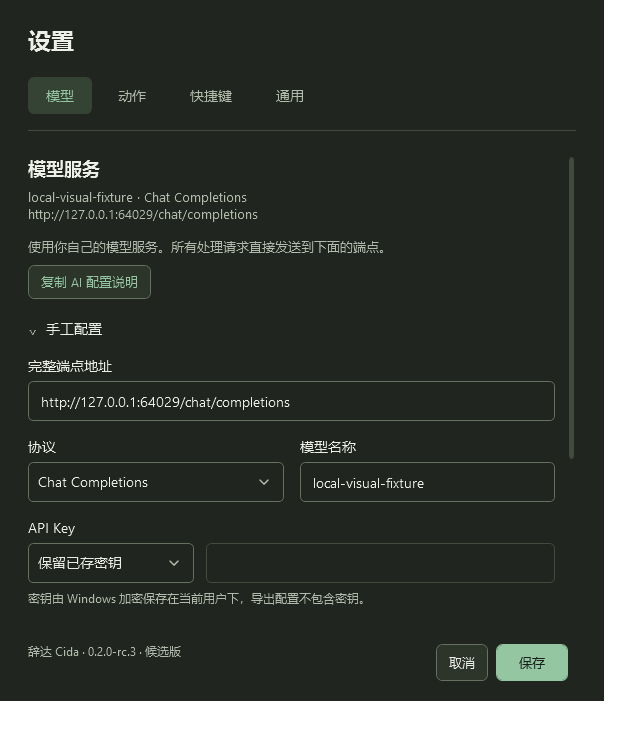
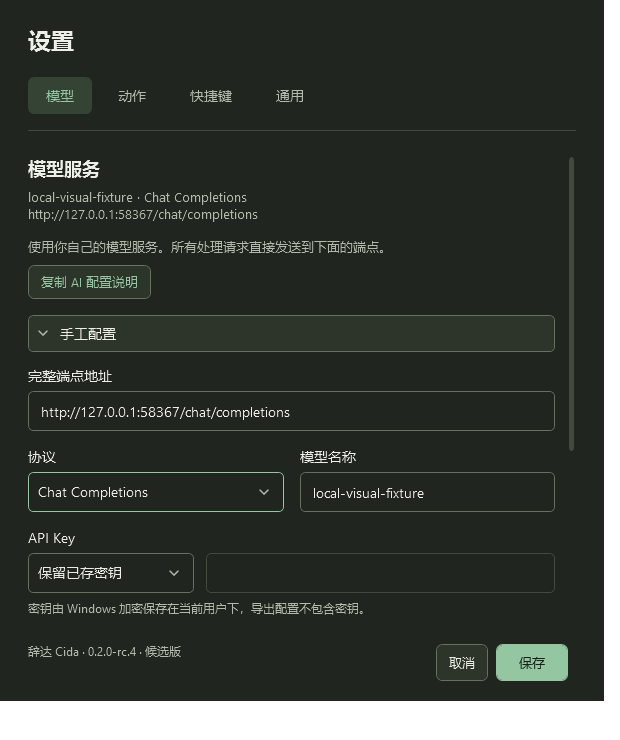
Fix opaque panel rendering, disclosure controls and window dragging

Changed region(s): [[0.0306, 0.4351, 0.7048, 0.8392], [0.3984, 0.6216, 0.4597, 0.6838], [0.1839, 0.2797, 0.2452, 0.3108]]

diff --git a/windows/Cida.Desktop/Resources/Controls.xaml b/windows/Cida.Desktop/Resources/Controls.xaml
@@ -16,8 +16,8 @@
     <Style TargetType="Expander">
         <Setter Property="Foreground" Value="{DynamicResource Ink}"/>
         <Setter Property="Template"><Setter.Value><ControlTemplate TargetType="Expander"><StackPanel>
-            <ToggleButton x:Name="HeaderSite" Foreground="{DynamicResource Ink}" HorizontalContentAlignment="Left" IsChecked="{Binding IsExpanded, RelativeSource={RelativeSource TemplatedParent}, Mode=TwoWay}">
-                <ToggleButton.Template><ControlTemplate TargetType="ToggleButton"><Border Background="Transparent" Padding="0,4"><StackPanel Orientation="Horizontal"><TextBlock Text="⌄" Margin="0,0,8,0" Foreground="{DynamicResource InkSecondary}"/><ContentPresenter/></StackPanel></Border></ControlTemplate></ToggleButton.Template>
+            <ToggleButton x:Name="HeaderSite" Foreground="{DynamicResource Ink}" HorizontalContentAlignment="Left" Cursor="Hand" AutomationProperties.Name="{Binding Header, RelativeSource={RelativeSource TemplatedParent}}" IsChecked="{Binding IsExpanded, RelativeSource={RelativeSource TemplatedParent}, Mode=TwoWay}">
+                <ToggleButton.Template><ControlTemplate TargetType="ToggleButton"><Border x:Name="surface" Background="{DynamicResource ControlBackground}" BorderBrush="{DynamicResource ControlBorder}" BorderThickness="1" CornerRadius="5" Padding="10,8"><Grid><Grid.ColumnDefinitions><ColumnDefinition Width="Auto"/><ColumnDefinition/></Grid.ColumnDefinitions><Path x:Name="chevron" Data="M 0,0 L 4,4 L 0,8" Stroke="{DynamicResource InkSecondary}" StrokeThickness="1.5" StrokeStartLineCap="Round" StrokeEndLineCap="Round" VerticalAlignment="Center" Margin="0,0,12,0"/><ContentPresenter Grid.Column="1" VerticalAlignment="Center"/></Grid></Border><ControlTemplate.Triggers><Trigger Property="IsChecked" Value="True"><Setter TargetName="chevron" Property="Data" Value="M 0,0 L 4,4 L 8,0"/></Trigger><Trigger Property="IsMouseOver" Value="True"><Setter TargetName="surface" Property="Background" Value="{DynamicResource ControlHover}"/></Trigger><Trigger Property="IsKeyboardFocused" Value="True"><Setter TargetName="surface" Property="BorderBrush" Value="{DynamicResource Accent}"/></Trigger><Trigger Property="IsPressed" Value="True"><Setter TargetName="surface" Property="Opacity" Value="0.75"/></Trigger></ControlTemplate.Triggers></ControlTemplate></ToggleButton.Template>
                 <ContentPresenter ContentSource="Header"/>
             </ToggleButton>
             <ContentPresenter x:Name="ContentSite" Visibility="Collapsed" ContentSource="Content"/>
@@ -44,6 +44,7 @@
         <Setter Property="FontFamily" Value="{DynamicResource InterfaceFont}"/><Setter Property="FontSize" Value="14"/>
         <Setter Property="Foreground" Value="{DynamicResource Ink}"/><Setter Property="Background" Value="{DynamicResource PanelBackground}"/>
         <Setter Property="UseLayoutRounding" Value="True"/><Setter Property="TextOptions.TextFormattingMode" Value="Display"/>
+        <Setter Property="TextOptions.TextRenderingMode" Value="Auto"/>
         <Setter Property="Icon" Value="/Cida;component/Assets/Brand/Cida.ico"/>
         <Setter Property="SnapsToDevicePixels" Value="True"/>
     </Style>
@@ -104,7 +105,7 @@
                 </ToggleButton>
                 <ContentPresenter IsHitTestVisible="False" Margin="10,0,36,0" VerticalAlignment="Center" Content="{TemplateBinding SelectionBoxItem}" ContentTemplate="{TemplateBinding SelectionBoxItemTemplate}" ContentTemplateSelector="{TemplateBinding ItemTemplateSelector}"/>
                 <Popup x:Name="PART_Popup" Placement="Bottom" AllowsTransparency="True" IsOpen="{TemplateBinding IsDropDownOpen}" Focusable="False">
-                    <Border MinWidth="{Binding ActualWidth, RelativeSource={RelativeSource TemplatedParent}}" Background="{DynamicResource PanelBackground}" BorderBrush="{DynamicResource ControlBorder}" BorderThickness="1" CornerRadius="5" Padding="4" Margin="0,4,0,0"><ScrollViewer MaxHeight="300"><ItemsPresenter KeyboardNavigation.DirectionalNavigation="Contained"/></ScrollViewer></Border>
+                    <Border MinWidth="{Binding ActualWidth, RelativeSource={RelativeSource TemplatedParent}}" Background="{DynamicResource PanelBackground}" RenderOptions.ClearTypeHint="Enabled" UseLayoutRounding="True" SnapsToDevicePixels="True" BorderBrush="{DynamicResource ControlBorder}" BorderThickness="1" CornerRadius="5" Padding="4" Margin="0,4,0,0"><ScrollViewer MaxHeight="300"><ItemsPresenter KeyboardNavigation.DirectionalNavigation="Contained"/></ScrollViewer></Border>
                 </Popup>
             </Grid>
             <ControlTemplate.Triggers><Trigger Property="IsKeyboardFocusWithin" Value="True"><Setter Property="BorderBrush" Value="{DynamicResource Accent}"/></Trigger><Trigger Property="IsEnabled" Value="False"><Setter Property="Opacity" Value="0.5"/></Trigger></ControlTemplate.Triggers>

diff --git a/windows/Cida.Desktop/PanelWindow.xaml b/windows/Cida.Desktop/PanelWindow.xaml
@@ -1,11 +1,12 @@
 <Window x:Class="Cida.Desktop.PanelWindow" xmlns="http://schemas.microsoft.com/winfx/2006/xaml/presentation" xmlns:x="http://schemas.microsoft.com/winfx/2006/xaml"
-        Title="辞达" Width="800" Height="620" MinWidth="340" MinHeight="300" WindowStyle="None" ResizeMode="NoResize" ShowInTaskbar="False" Topmost="True" AllowsTransparency="True" Background="Transparent">
+        Title="辞达" Width="800" Height="620" MinWidth="340" MinHeight="300" WindowStyle="None" ResizeMode="NoResize" ShowInTaskbar="False" Topmost="True" Background="{DynamicResource PanelBackground}">
+    <WindowChrome.WindowChrome><WindowChrome CaptionHeight="0" ResizeBorderThickness="0" GlassFrameThickness="0" CornerRadius="0" UseAeroCaptionButtons="False"/></WindowChrome.WindowChrome>
     <Border Background="{DynamicResource PanelBackground}" BorderBrush="{DynamicResource PanelBorder}" BorderThickness="1" CornerRadius="14" ClipToBounds="True">
         <Grid>
             <Grid.RowDefinitions><RowDefinition Height="Auto"/><RowDefinition Height="1.0*"/><RowDefinition Height="Auto"/><RowDefinition Height="1.6*"/></Grid.RowDefinitions>
-            <Grid Margin="28,18,20,0" x:Name="TitleBar">
+            <Grid Background="Transparent" Margin="28,18,20,0" x:Name="TitleBar">
                 <Grid.ColumnDefinitions><ColumnDefinition/><ColumnDefinition Width="Auto"/></Grid.ColumnDefinitions>
-                <StackPanel Orientation="Horizontal" VerticalAlignment="Center"><Image Source="/Cida;component/Assets/Brand/Cida24.png" Width="24" Height="24" Margin="0,0,9,0" RenderOptions.BitmapScalingMode="NearestNeighbor"/><TextBlock Text="辞达" FontSize="14" FontWeight="SemiBold" Foreground="{DynamicResource Ink}" VerticalAlignment="Center"/></StackPanel>
+                <StackPanel Orientation="Horizontal" VerticalAlignment="Center"><Image x:Name="BrandIcon" Width="24" Height="24" Margin="0,0,9,0" RenderOptions.BitmapScalingMode="HighQuality"/><TextBlock Text="辞达" FontSize="14" FontWeight="SemiBold" Foreground="{DynamicResource Ink}" VerticalAlignment="Center"/></StackPanel>
                 <StackPanel Grid.Column="1" Orientation="Horizontal"><Button x:Name="SettingsButton" Click="OnSettings" ToolTip="设置 · Ctrl+," AutomationProperties.Name="设置"><StackPanel Orientation="Horizontal"><TextBlock FontFamily="Segoe Fluent Icons, Segoe MDL2 Assets" Text="&#xE713;" Margin="0,0,7,0" VerticalAlignment="Center"/><TextBlock Text="设置"/></StackPanel></Button><Button x:Name="HideButton" Click="OnHide" ToolTip="隐藏面板 · Esc" AutomationProperties.Name="关闭" Margin="0"><StackPanel Orientation="Horizontal"><TextBlock FontFamily="Segoe Fluent Icons, Segoe MDL2 Assets" Text="&#xE8BB;" Margin="0,0,7,0" VerticalAlignment="Center"/><TextBlock Text="关闭"/></StackPanel></Button></StackPanel>
             </Grid>
             <Grid Grid.Row="1" Margin="28,16,28,20">

diff --git a/tests/Cida.VisualChecks/Program.cs b/tests/Cida.VisualChecks/Program.cs
@@ -11,6 +11,8 @@ using System.Windows.Controls;
 using System.Windows.Media;
 using System.Windows.Media.Imaging;
 using Point = System.Windows.Point;
+using System.Runtime.InteropServices;
+using System.Windows.Interop;
 
 namespace Cida.VisualChecks;
 
@@ -33,6 +35,10 @@ public static class Program
         var model = new AppModel(store);
         model.OpenPanel();
         var panel = application.Windows.OfType<PanelWindow>().Single(); panel.Title = "辞达 · 受控界面验证";
+        panel.LocationChanged += (_, _) => {
+            Directory.CreateDirectory(profile);
+            File.AppendAllText(Path.Combine(profile, "movement-log.jsonl"), JsonSerializer.Serialize(new { left=panel.Left, top=panel.Top, utc=DateTime.UtcNow }) + "\n");
+        };
         if (args.Contains("--render-suite"))
         {
             application.Dispatcher.BeginInvoke(async () =>
@@ -84,8 +90,35 @@ public static class Program
     private static async Task RenderSuiteAsync(System.Windows.Application application, AppModel model, PanelWindow panel, string profile)
     {
         var directory = Path.Combine(profile, "render-suite"); Directory.CreateDirectory(directory);
+        void SaveMetrics(Window window, string name)
+        {
+            var hwnd = new WindowInteropHelper(window).Handle;
+            var context = GetWindowDpiAwarenessContext(hwnd);
+            var dpi = VisualTreeHelper.GetDpi(window);
+            if (!AreDpiAwarenessContextsEqual(context, (nint)(-4)) || Math.Abs(GetDpiForWindow(hwnd) - dpi.DpiScaleX * 96) > 1)
+                throw new InvalidOperationException("Native and WPF DPI contexts do not match PerMonitorV2.");
+            var layered = (GetWindowLongPtr(hwnd, -20).ToInt64() & 0x80000) != 0;
+            if (window is PanelWindow or SettingsWindow && (layered || !window.UseLayoutRounding || !window.SnapsToDevicePixels || TextOptions.GetTextFormattingMode(window) != TextFormattingMode.Display))
+                throw new InvalidOperationException("Product window is not using opaque, pixel-aligned display text rendering.");
+            File.WriteAllText(Path.Combine(directory, name + "-render-metrics.json"), JsonSerializer.Serialize(new {
+                nativeDpi = GetDpiForWindow(hwnd), scaleX = dpi.DpiScaleX, scaleY = dpi.DpiScaleY,
+                perMonitorV2 = AreDpiAwarenessContextsEqual(context, (nint)(-4)),
+                layered,
+                layoutRounding = window.UseLayoutRounding, pixelSnapping = window.SnapsToDevicePixels,
+                font = window.FontFamily.Source, formatting = TextOptions.GetTextFormattingMode(window).ToString(),
+                rendering = TextOptions.GetTextRenderingMode(window).ToString(), left = window.Left, top = window.Top,
+                width = window.ActualWidth, height = window.ActualHeight
+            }));
+        }
         using (var icon = BrandAssets.LoadTrayIcon())
             File.WriteAllText(Path.Combine(directory, "tray-icon-metrics.json"), JsonSerializer.Serialize(new { width=icon.Width, height=icon.Height }));
+        foreach (var monitor in System.Windows.Forms.Screen.AllScreens)
+        {
+            var hwnd = new WindowInteropHelper(panel).Handle;
+            SetWindowPos(hwnd, 0, monitor.WorkingArea.Left + 32, monitor.WorkingArea.Top + 32, 0, 0, 0x0001 | 0x0004 | 0x0010);
+            await System.Windows.Threading.Dispatcher.Yield(System.Windows.Threading.DispatcherPriority.ApplicationIdle);
+            SaveMetrics(panel, "monitor-" + monitor.DeviceName.Replace("\\", "").Replace(".", ""));
+        }
         void Save(Window window, string name, double scale = 1)
         {
             window.UpdateLayout();
@@ -97,6 +130,10 @@ public static class Program
         {
             var theme = dark ? "dark" : "light"; ThemeService.Apply(dark); panel.Show(); panel.Width = 800; panel.Height = 620;
             await System.Windows.Threading.Dispatcher.Yield(System.Windows.Threading.DispatcherPriority.ApplicationIdle);
+            SaveMetrics(panel, theme + "-panel");
+            var title = (FrameworkElement)panel.FindName("TitleBar");
+            if (panel.InputHitTest(title.TranslatePoint(new Point(title.ActualWidth / 2, title.ActualHeight / 2), panel)) != title)
+                throw new InvalidOperationException("Blank panel title area is not hit-testable for dragging.");
             panel.SetSourceText(""); panel.BeginResult(model.Settings.EnabledActions.First(), ""); panel.CompleteResult(); Save(panel, theme + "-empty");
             panel.SetSourceText("Good software should make the next step feel obvious.\n\nKeep the meaning. Remove the noise.");
             panel.BeginResult(model.Settings.EnabledActions.First(), panel.State.Source);
@@ -109,6 +146,7 @@ public static class Program
             panel.BeginResult(model.Settings.EnabledActions.First(), panel.State.Source); panel.AppendResult(string.Join("\n\n", Enumerable.Repeat("长文仍然清楚易读，操作按钮保持在固定位置。（本地模拟）", 100))); panel.CompleteResult(); Save(panel, theme + "-long");
             panel.Hide();
             var settings = new SettingsWindow(model); settings.Show(); ThemeService.Apply(dark);
+            SaveMetrics(settings, theme + "-settings");
             var pages = (System.Windows.Controls.TabControl)settings.FindName("Pages");
             for (var index = 0; index < 4; index++)
             {
@@ -142,6 +180,11 @@ public static class Program
         panel.Close();
         File.WriteAllText(Path.Combine(directory, "README.txt"), "Controlled renders of real product views with local synthetic data. Raster scales 1/1.25/1.5/2 are not OS DPI or multi-monitor acceptance. No external model request was sent.");
     }
+    [DllImport("user32.dll")] private static extern uint GetDpiForWindow(nint hwnd);
+    [DllImport("user32.dll")] private static extern nint GetWindowDpiAwarenessContext(nint hwnd);
+    [DllImport("user32.dll")] private static extern bool AreDpiAwarenessContextsEqual(nint first, nint second);
+    [DllImport("user32.dll", EntryPoint = "GetWindowLongPtrW")] private static extern nint GetWindowLongPtr(nint hwnd, int index);
+    [DllImport("user32.dll")] private static extern bool SetWindowPos(nint hwnd, nint after, int x, int y, int width, int height, uint flags);
     private static async Task ServeAsync(TcpListener listener)
     {
         while (true)

diff --git a/scripts/derive-design-assets.py b/scripts/derive-design-assets.py
@@ -83,19 +83,23 @@ image.resize((256, 256), Image.Resampling.LANCZOS).save(brand / "Cida.png")
 # The detailed serif glyph needs optical simplification below 48px. Draw each
 # small frame on its own pixel grid; never downsample a selected 32px tray icon.
 def small_mark(size):
-    bitmap = Image.new("RGBA", (size, size), (0, 0, 0, 0))
+    samples = 8
+    bitmap = Image.new("RGBA", (size*samples, size*samples), (0, 0, 0, 0))
     pen = ImageDraw.Draw(bitmap)
-    pen.rounded_rectangle((0, 0, size-1, size-1), radius=round(size/8), fill="#F5F3ED")
+    pen.rounded_rectangle((0, 0, size*samples-1, size*samples-1), radius=round(size/8)*samples, fill="#F5F3ED")
     scale = size/16
     def line(points, color="#242922"):
-        pen.line([(round(x*scale), round(y*scale)) for x,y in points], fill=color, width=max(1,round(scale)))
+        width = max(1,round(scale))
+        # Keep straight stems on pixel boundaries, antialias diagonals and curves.
+        offset = samples//2 if width % 2 else 0
+        pen.line([(round(x*scale)*samples+offset, round(y*scale)*samples+offset) for x,y in points], fill=color, width=width*samples)
     # 舌 + 辛 keep the character and caret recognizable with complete pixel stems.
     for points in [[(2,3),(6,2)],[(4,3),(4,7)],[(1,5),(7,5)],[(2,8),(6,8),(6,13),(2,13),(2,8)],
                    [(10,2),(11,2)],[(8,4),(13,4)],[(9,5),(10,7)],[(12,5),(11,7)],
                    [(8,8),(13,8)],[(8,11),(13,11)],[(10,8),(10,14)]]:
         line(points)
     line([(15,4),(15,13)], "#346847")
-    return bitmap
+    return bitmap.resize((size,size), Image.Resampling.LANCZOS)
 sizes = [16,20,24,28,32,40,48,64,128,256]
 frames = [small_mark(size) if size < 48 else image.resize((size,size), Image.Resampling.LANCZOS) for size in sizes]
 frames[0].save(brand / "Cida16.png")
@@ -115,6 +119,6 @@ manifest = brand.parent / "provenance.json"
 provenance = json.loads(manifest.read_text(encoding="utf-8")) if manifest.exists() else {"upstream":"Xuanwo/cida", "commit":"473013c93e052e08603ffd2faccda0d6dafbb5be"}
 if records: provenance["font_derivatives"] = records
 provenance["brand_source"] = ["glyph.svg", "caret.svg"]
-provenance["brand_small_frames"] = {"sizes":sizes, "method":"Pixel-aligned optical simplification of the character and caret at 16-40px; original detailed glyph at 48px and above."}
+provenance["brand_small_frames"] = {"sizes":sizes, "method":"Pixel-aligned optical simplification at 16-40px; each size antialiased separately with 8x coverage sampling. Original detailed glyph at 48px and above."}
 manifest.write_text(json.dumps(provenance, ensure_ascii=False, indent=2), encoding="utf-8")
 print("Static fonts, Windows ICO and provenance written.")

diff --git a/windows/Cida.Desktop/PanelWindow.xaml.cs b/windows/Cida.Desktop/PanelWindow.xaml.cs
@@ -35,6 +35,7 @@ public partial class PanelWindow : Window
     public PanelWindow(AppModel model)
     {
         _model = model; ThemeService.Apply(); InitializeComponent(); _composer = Composer;
+        Style = (Style)FindResource(typeof(Window));
         ShowActivated = false;
         if (Environment.GetEnvironmentVariable("CIDA_UI_INSPECTION") == "1") ShowInTaskbar = true;
         State.ActionId = model.Settings.EnabledActions.First().Id;
@@ -45,7 +46,8 @@ public partial class PanelWindow : Window
         _renderClock.Tick += (_, _) => { if (_renderQueued) RenderResult(); };
         _renderClock.Start();
         IsVisibleChanged += (_, _) => { if (IsVisible) _shownAt = DateTime.UtcNow; DevelopmentTrace.Stage("panel visible=" + IsVisible); };
-        SourceInitialized += (_, _) => WindowPlacement.NearCursor(this);
+        SourceInitialized += (_, _) => { ThemeService.ApplyWindowFrame(this); WindowPlacement.NearCursor(this); RefreshBrandIcon(); };
+        DpiChanged += (_, _) => RefreshBrandIcon();
         TitleBar.MouseLeftButtonDown += (_, e) => { if (e.LeftButton == MouseButtonState.Pressed) DragMove(); };
         Closed += (_, _) => { _cancellation?.Cancel(); _renderClock.Stop(); };
         Deactivated += (_, _) =>
@@ -53,6 +55,7 @@ public partial class PanelWindow : Window
             if (Environment.GetEnvironmentVariable("CIDA_UI_INSPECTION") != "1" && !_composing && IsVisible && !_model.IsSettingsVisible && DateTime.UtcNow - _shownAt > TimeSpan.FromMilliseconds(300)) Hide();
         };
     }
+    private void RefreshBrandIcon() => BrandIcon.Source = BrandAssets.LoadPanelImage(VisualTreeHelper.GetDpi(this).DpiScaleX);
     public void RefreshConfiguration()
     {
         ConfigureButton.Visibility = _model.Settings.IsModelServiceComplete ? Visibility.Collapsed : Visibility.Visible;

diff --git a/tests/Cida.Windows.Tests/WindowsRegressionTests.cs b/tests/Cida.Windows.Tests/WindowsRegressionTests.cs
@@ -239,8 +239,15 @@ public sealed class WindowsRegressionTests
             using var saved = ClipboardSnapshot.Capture();
             Assert.True(saved != null, ClipboardSnapshot.LastCaptureFailure);
             var expectedSequence = ClipboardSnapshot.SequenceNumber();
-            System.Windows.Forms.Clipboard.SetText("newer clipboard must survive");
+            // Publish the simulated other application's copy eagerly: SetText
+            // leaves a lazy OLE data object owned by this secondary STA fixture.
+            System.Windows.Forms.Clipboard.SetDataObject("newer clipboard must survive", true);
+            Assert.Equal("newer clipboard must survive", System.Windows.Forms.Clipboard.GetText());
+            var newSequence = ClipboardSnapshot.SequenceNumber();
+            Assert.NotEqual(expectedSequence, newSequence);
             Assert.False(ClipboardSnapshot.Restore(saved!, hwnd, expectedSequence));
+            var nativeText = ClipboardSnapshot.ReadText(hwnd, newSequence);
+            Assert.Equal("newer clipboard must survive", nativeText);
             Assert.Equal("newer clipboard must survive", System.Windows.Forms.Clipboard.GetText());
         }
         finally

diff --git a/windows/Cida.Desktop/BrandAssets.cs b/windows/Cida.Desktop/BrandAssets.cs
@@ -1,10 +1,21 @@
 using System;
 using System.Runtime.InteropServices;
+using System.Windows.Media.Imaging;
+using System.Linq;
 
 namespace Cida.Desktop;
 
 public static class BrandAssets
 {
+    public static BitmapSource LoadPanelImage(double scale)
+    {
+        var pixels = Math.Max(16, (int)Math.Round(24 * scale));
+        using var stream = System.Windows.Application.GetResourceStream(new Uri("pack://application:,,,/Cida;component/Assets/Brand/Cida.ico")).Stream;
+        var decoder = new IconBitmapDecoder(stream, BitmapCreateOptions.PreservePixelFormat, BitmapCacheOption.OnLoad);
+        var frame = decoder.Frames.Where(item => item.PixelWidth >= pixels).OrderBy(item => item.PixelWidth).FirstOrDefault()
+            ?? decoder.Frames.OrderByDescending(item => item.PixelWidth).First();
+        frame.Freeze(); return frame;
+    }
     public static System.Drawing.Icon LoadTrayIcon()
     {
         var taskbar = FindWindow("Shell_TrayWnd", null);

diff --git a/windows/Cida.Desktop/LayerOverlayWindow.xaml.cs b/windows/Cida.Desktop/LayerOverlayWindow.xaml.cs
@@ -23,6 +23,7 @@ public sealed class LayerOverlayWindow : Window
 
     public LayerOverlayWindow(string translation, System.Drawing.RectangleF bounds)
     {
+        Style = (Style)FindResource(typeof(Window));
         Title = "辞达 · 原处翻译";
         WindowStyle = WindowStyle.None;
         ResizeMode = ResizeMode.NoResize;
@@ -43,6 +44,7 @@ public sealed class LayerOverlayWindow : Window
         };
         paper.SetResourceReference(System.Windows.Controls.Border.BackgroundProperty, "Paper");
         paper.SetResourceReference(System.Windows.Controls.Border.BorderBrushProperty, "PanelBorder");
+        RenderOptions.SetClearTypeHint(paper, ClearTypeHint.Enabled);
         _text.SetResourceReference(System.Windows.Controls.TextBlock.ForegroundProperty, "Ink");
         _text.Text = translation;
         Content = paper;

diff --git a/windows/Cida.Desktop/UpdateService.cs b/windows/Cida.Desktop/UpdateService.cs
@@ -19,7 +19,7 @@ public sealed class UpdateService
     public bool CanRestart => _manager?.UpdatePendingRestart != null && !_busy;
     public bool IsDownloading => _downloadCancellation != null;
     public event Action? Changed;
-    public static string Version => System.Reflection.CustomAttributeExtensions.GetCustomAttribute<System.Reflection.AssemblyInformationalVersionAttribute>(typeof(App).Assembly)?.InformationalVersion.Split('+')[0] ?? "0.2.0-rc.3";
+    public static string Version => System.Reflection.CustomAttributeExtensions.GetCustomAttribute<System.Reflection.AssemblyInformationalVersionAttribute>(typeof(App).Assembly)?.InformationalVersion.Split('+')[0] ?? "0.2.0-rc.4";
     private void Notify() => Changed?.Invoke();
     public async Task CheckDailyAsync()
     {

diff --git a/windows/Cida.Desktop/ThemeService.cs b/windows/Cida.Desktop/ThemeService.cs
@@ -16,6 +16,11 @@ public static class ThemeService
         if (handle == 0) return;
         var enabled = _dark ? 1 : 0;
         DwmSetWindowAttribute(handle, 20, ref enabled, sizeof(int));
+        if (window is PanelWindow)
+        {
+            var rounded = 2; // DWMWCP_ROUND: native corners, without a layered HWND.
+            DwmSetWindowAttribute(handle, 33, ref rounded, sizeof(int));
+        }
     }
     [DllImport("dwmapi.dll")] private static extern int DwmSetWindowAttribute(nint window, int attribute, ref int value, int size);
     public static void Start()

diff --git a/windows/Cida.Desktop/CaptureWindow.xaml.cs b/windows/Cida.Desktop/CaptureWindow.xaml.cs
@@ -40,6 +40,7 @@ public sealed class CaptureWindow : Window
     {
         _model = model;
         _ocr = ocr;
+        Style = (Style)FindResource(typeof(Window));
         // Capture before this topmost window is visible, so the image cannot include itself.
         var screen = System.Windows.Forms.Screen.FromPoint(System.Windows.Forms.Cursor.Position);
         _frozen = capturer.Capture(screen.Bounds);

diff --git a/docs/windows-rendering-verification.md b/docs/windows-rendering-verification.md
@@ -1,0 +1,41 @@
+# Windows 渲染与拖动修复 · v0.2.0-rc.4
+
+2026-10-10；基线 `ce35ccdfda9eb8e9ca286d4bbfc1472d51e68c4c`。用户报告 rc.3 在笔记本外接显示器、约 100% 缩放下，折叠箭头丑、界面文字/图标模糊或有锯齿、主面板不能拖动。本次延续已授权的 Windows 体验修复。
+
+## 事实、原因与改动
+
+旧主面板在相同实际桌面测得：原生 DPI 96、WPF 缩放 1、PerMonitorV2 为 true；但 HWND 带 WS_EX_LAYERED，UseLayoutRounding 和 SnapsToDevicePixels 均为 false，文字排版是 Ideal，默认字体 Microsoft YaHei UI。它没有像 SettingsWindow 一样显式应用 Window 样式，透明窗口也会限制 ClearType 渲染路径。因此本机没有发现整窗 DPI 虚拟化放大，但找到了应用自身的渲染问题。
+
+设置页旧值已经是非分层、Display 和像素对齐，不能把用户看到的所有页面模糊都归因于主面板。系统字体平滑已启用，本次不修改显示器缩放、分辨率、系统字体平滑或兼容性设置。
+
+- **主面板**：改为不透明 HWND，使用 WindowChrome 和 Windows DWM 原生圆角；显式应用统一的界面字体、Display 排版、布局取整与像素吸附。保留原文/译文阅读字体设计，文字抗锯齿使用 Auto，尊重系统设置。
+- **其他视图**：截图窗口及原处翻译窗口显式应用同一 Window 样式；原处翻译保留点击穿透的透明窗口，只在不透明纸色区域提示 ClearType。下拉弹出列表同样在不透明背景上启用 ClearType 提示与像素对齐。
+- **图标**：主面板随实际 DPI 从 ICO 选择足够大的帧，高质量缩放，移除固定 24 px 图片的最近邻放大。16–40 px 字标仍逐尺寸设计，对斜线和圆角加入独立 8 倍覆盖采样，保留直线像素对齐。
+- **折叠控件**：手工配置/高级请求配置改用矢量折线，展开向下、收起向右；整行有边界、悬停、按压和键盘焦点，不再依赖“⌄”字符的字形与基线。
+- **拖动**：标题容器设置透明命中背景，空白区可收到鼠标按下并进入原有 DragMove；设置/关闭按钮仍单独处理点击。
+
+相关平台依据：[WPF ClearTypeHint](https://learn.microsoft.com/en-us/dotnet/api/system.windows.media.renderoptions.cleartypehint)、[布局取整](https://learn.microsoft.com/en-us/dotnet/desktop/wpf/advanced/layout)、[DWM 原生圆角](https://learn.microsoft.com/en-us/windows/apps/desktop/modernize/ui/apply-rounded-corners)。
+
+## 本轮验证
+
+视觉工具使用与产品一致的 PerMonitorV2 manifest，读取真实 HWND 和 WPF DPI。修复后的面板/设置页均为 DPI 96、缩放 1、PerMonitorV2；非分层，布局取整/像素吸附 true，文字排版 Display。当前执行桌面只暴露 DISPLAY1；不把这次检查写成完整混合 DPI 双屏验收。
+
+工具增加 DPI 一致性、窗口渲染状态及标题空白区命中断言，任一不满足就失败；保留浅深色、所有设置页及多尺度输出。受控渲染共 28 张，不代表屏幕 ClearType 的逐像素输出。
+
+Computer Use 在真实自有 WPF 视图执行两次标题拖动；位置日志由 (704,474) 移至 (644,454)，与第二次 -60/-20 的输入一致。随后点击设置成功，手工配置收起/重新展开、高级请求配置展开均已实际操作；高级配置展开后 UIA 出现认证方式、请求头与请求体字段。
+
+Release 构建 0 警告、0 错误；Core 96/96，交互桌面 Windows 5/5。交互测试在独立 STA、自有编辑器与本地服务上运行，编辑器关闭 IME，不证明完整中文输入法验收。回归曾在模拟新复制处读到空文本；改为立即发布的 SetDataObject(..., true)，加入恢复前文本/序号变化断言，并同时用原生及托管读取核对恢复后文本。最终检查通过；此前托管读取异常的全部触发条件尚未穷尽，本轮不修改生产剪贴板逻辑。
+
+```powershell
+dotnet build windows -c Release
+dotnet test tests/Cida.Core.Tests -c Release
+$env:CIDA_DESKTOP_TESTS = '1'
+dotnet test tests/Cida.Windows.Tests -c Release
+Remove-Item Env:\CIDA_DESKTOP_TESTS
+dotnet run --project tests/Cida.VisualChecks -- --render-suite
+pwsh -File scripts/package.ps1 -Version 0.2.0-rc.4
+```
+
+## 交付与边界
+
+交付新的 rc.4 未签名候选安装包与便携包，保留 rc.3 tag 和附件。当前证据是源码、实际单屏 100% 窗口及受控交互；没有断言用户所见的全部模糊已经在其外接屏上消失。完整混合 DPI 多屏、实际 125/150/200% OS 缩放切换、完整中文 IME、外部应用矩阵、干净机器安装/升级/卸载及远端自动更新仍待目标环境验收。
